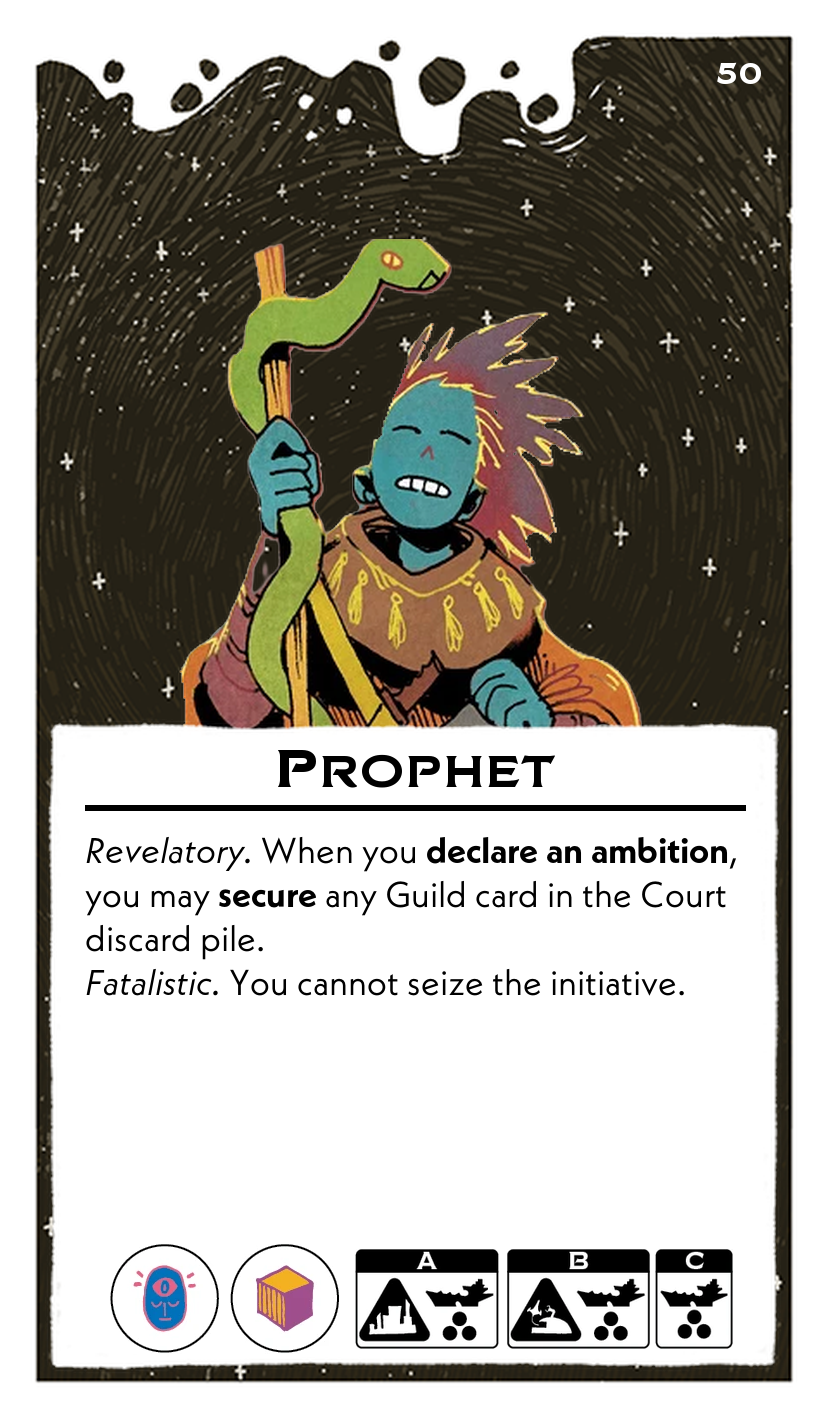
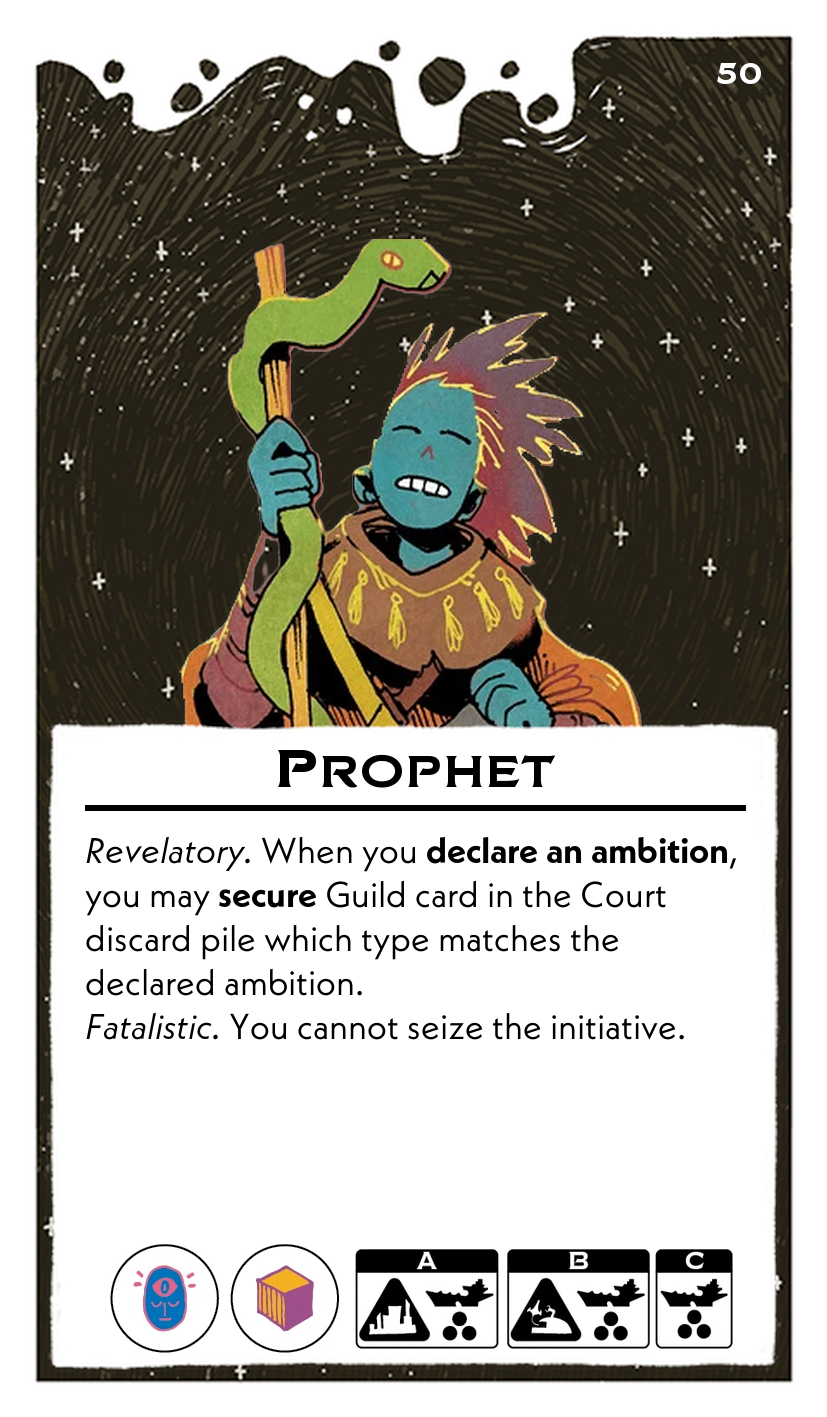
prophet

Changed region(s): [[0.0907, 0.621, 0.8767, 0.7452]]

diff --git a/scripts/leadersFormatted.py b/scripts/leadersFormatted.py
@@ -774,7 +774,7 @@ leaders = [
         {
         "name": "Prophet",
         "abilities": (
-            "*Revelatory.* When you **declare** **an** **ambition**, you may **secure** any Guild card in the Court discard pile.\n"
+            "*Revelatory.* When you **declare** **an** **ambition**, you may **secure** Guild card in the Court discard pile which type matches the declared ambition.\n"
             "*Fatalistic.* You cannot seize the initiative."
         ),
         "resources": ["Psionic", "Material"],
